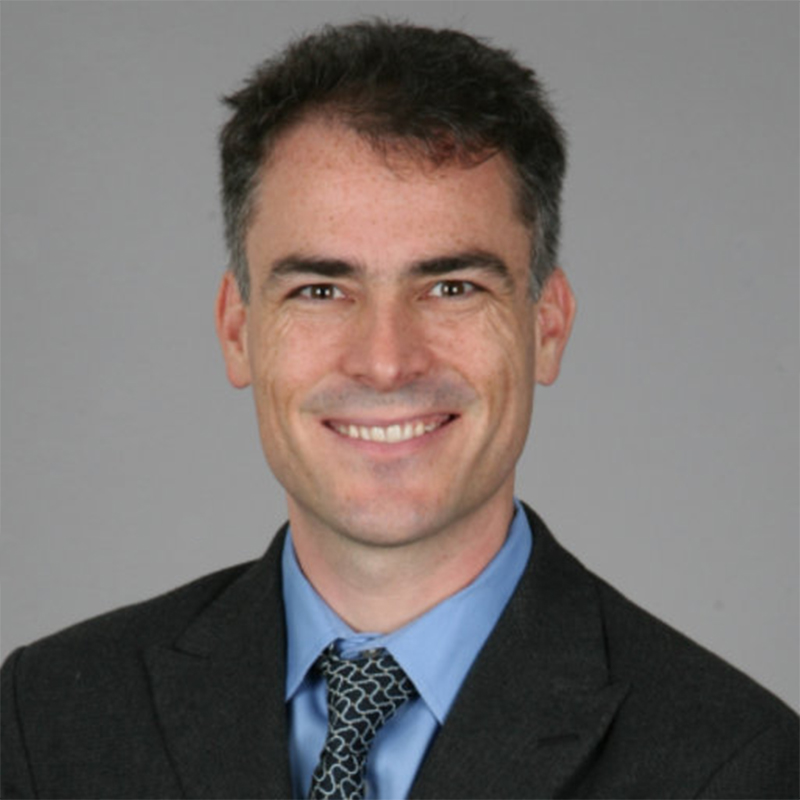
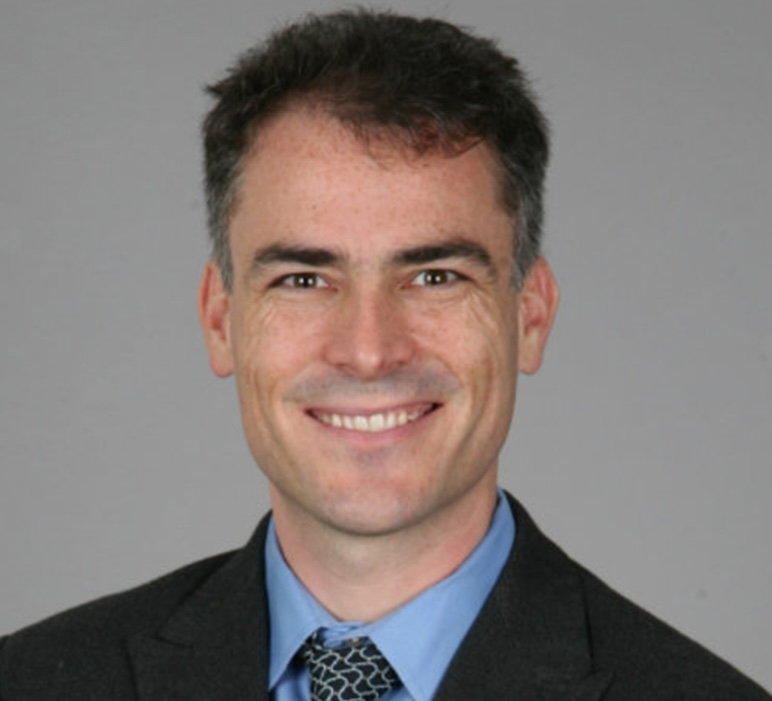
workshops

Changed region(s): [[0.0, 0.0, 1.0, 1.0], [0.4041, 0.1498, 0.6528, 0.2696]]

diff --git a/workshops.html b/workshops.html
@@ -138,6 +138,7 @@ footer .foot-brand { font-size: 1.05rem; font-weight: 700; color: #fff; margin-b
   <div class="ws-meta">Sunday morning &middot; 9:00 am &ndash; 12:30 pm &middot; Chair: Anirban Bandyopadhyay</div>
   <p style="font-size:.92rem;color:#555;margin:.2rem 0 .9rem;">Rooted in the Indian Knowledge System, this workshop bridges contemplative insight with modern science &mdash; exploring how quantum perception, biology, and music illuminate the structure of awareness. Drawing on quantum biology, music cognition, signal processing, and meditative practice, the speakers consider consciousness as a resonant, multi-dimensional phenomenon spanning matter, sound, and mind.</p>
   <div class="spk-grid">
+    <div class="spk"><img class="av" src="img/anirban-bandyopadhyay.jpg" alt="Anirban Bandyopadhyay"><span class="nm">Anirban Bandyopadhyay <em>(Chair)</em></span></div>
     <div class="spk"><div class="ini">CN</div><span class="nm">Chayan Nandi</span></div>
     <div class="spk"><div class="ini">VC</div><span class="nm">Venkatesh Chembrulu</span></div>
     <div class="spk"><div class="ini">AB</div><span class="nm">Archi Banerjee</span></div>
@@ -150,9 +151,9 @@ footer .foot-brand { font-size: 1.05rem; font-weight: 700; color: #fff; margin-b
 
 <div class="session-panel" data-slot="morning" id="s3">
   <h3>W3: Women in Consciousness Science and Education</h3>
-  <div class="ws-meta">Sunday morning &middot; 9:00 am &ndash; 10:20 am</div>
+  <div class="ws-meta">Sunday morning &middot; 9:00 am &ndash; 10:20 am &middot; Chair: Joan Walton</div>
   <div class="spk-grid">
-    <div class="spk"><div class="ini">JW</div><span class="nm">Joan Walton</span></div>
+    <div class="spk"><div class="ini">JW</div><span class="nm">Joan Walton <em>(Chair)</em></span></div>
     <div class="spk"><div class="ini">LW</div><span class="nm">Laurel Waterman</span></div>
     <div class="spk"><div class="ini">MW</div><span class="nm">Marjorie Woollacott</span></div>
   </div>
@@ -160,10 +161,10 @@ footer .foot-brand { font-size: 1.05rem; font-weight: 700; color: #fff; margin-b
 
 <div class="session-panel" data-slot="afternoon" id="s4">
   <h3>W4: Brain Electromagnetic Field Generation and Information Processing</h3>
-  <div class="ws-meta">Sunday afternoon &middot; 2:00 pm &ndash; 4:00 pm &middot; Chair: M. Bruce MacIver</div>
+  <div class="ws-meta">Sunday afternoon &middot; 2:00 pm &ndash; 4:00 pm &middot; Chair: Bruce MacIver</div>
   <p style="font-size:.92rem;color:#555;margin:.2rem 0 .9rem;">Electromagnetic field (EMF) theories propose that consciousness arises from the dynamic electromagnetic field generated by the brain&rsquo;s neuronal currents &mdash; the activity reflected in the EEG. Building on evidence that the brain&rsquo;s strongest field activity is directed inward toward its central regions, the workshop examines how these fields integrate neural activity, why external shielding leaves consciousness unaffected while deep-brain stimulation alters it, and what this implies for the binding and &ldquo;hard&rdquo; problems of consciousness. (See MacIver, <a href="https://www.frontiersin.org/journals/human-neuroscience/articles/10.3389/fnhum.2022.1032339/full" target="_blank" rel="noopener">Consciousness and inward electromagnetic field interactions</a>.)</p>
   <div class="spk-grid">
-    <div class="spk"><div class="ini">BM</div><span class="nm">M. Bruce MacIver</span></div>
+    <div class="spk"><div class="ini">BM</div><span class="nm">Bruce MacIver <em>(Chair)</em></span></div>
     <div class="spk"><div class="ini">JM</div><span class="nm">Johnjoe McFadden</span></div>
     <div class="spk"><img class="av" src="img/michael-levin.jpg" alt="Michael Levin"><span class="nm">Michael Levin <em>(Remote)</em></span></div>
     <div class="spk"><div class="ini">TH</div><span class="nm">Tam Hunt</span></div>
@@ -175,8 +176,8 @@ footer .foot-brand { font-size: 1.05rem; font-weight: 700; color: #fff; margin-b
   <div class="ws-meta">Sunday morning &middot; 8:30 am &ndash; 12:30 pm &middot; Chair: Thomas Brophy</div>
   <p style="font-size:.92rem;color:#555;margin:.2rem 0 .9rem;">Can mind reach beyond the brain and body? This workshop presents the experimental study of telepathy, mediumship, out-of-body experiences, and mind&ndash;matter interaction &mdash; with an emphasis on methodological rigour, replication, and peer-reviewed evidence. Together, the talks survey much of the research program of the Institute of Noetic Sciences (IONS).</p>
   <div class="spk-grid">
+    <div class="spk"><img class="av" src="img/thomas-brophy.jpg" alt="Thomas Brophy"><span class="nm">Thomas Brophy <em>(Chair)</em></span></div>
     <div class="spk"><img class="av" src="img/claudia-welss.jpg" alt="Claudia Welss"><span class="nm">Claudia Welss</span></div>
-    <div class="spk"><img class="av" src="img/thomas-brophy.jpg" alt="Thomas Brophy"><span class="nm">Thomas Brophy</span></div>
     <div class="spk"><img class="av" src="img/dean-radin.jpg" alt="Dean Radin"><span class="nm">Dean Radin</span></div>
     <div class="spk"><img class="av" src="img/helane-wahbeh.jpg" alt="Helane Wahbeh"><span class="nm">Helan&eacute; Wahbeh</span></div>
     <div class="spk"><img class="av" src="img/erik-brinsmead.png" alt="Erik Brinsmead"><span class="nm">Erik Brinsmead</span></div>
@@ -189,12 +190,12 @@ footer .foot-brand { font-size: 1.05rem; font-weight: 700; color: #fff; margin-b
   <div class="ws-meta">Sunday afternoon &middot; 2:00 pm &ndash; 4:00 pm &middot; Chair: Kunal Mooley</div>
   <p style="font-size:.92rem;color:#555;margin:.2rem 0 .9rem;">At the borderlands of consciousness, near-death experiences (NDEs), out-of-body experiences (OBEs), and reports of past-life memories raise pointed questions about whether consciousness depends entirely on the brain. This workshop reviews the scientific study of these phenomena &mdash; from prospective hospital NDE research and tests of perception during OBEs to systematically investigated cases of children who report past-life memories &mdash; and what they may imply for theories of mind.</p>
   <div class="spk-grid">
+    <div class="spk"><div class="ini">KM</div><span class="nm">Kunal Mooley <em>(Chair)</em></span></div>
     <div class="spk"><div class="ini">KP</div><span class="nm">Kim Penberthy</span></div>
     <div class="spk"><div class="ini">MF</div><span class="nm">Martin Fleming</span></div>
     <div class="spk"><div class="ini">PC</div><span class="nm">Philip Cozzoli</span></div>
     <div class="spk"><img class="av" src="img/marina-weiler.jpg" alt="Marina Weiler"><span class="nm">Marina Weiler</span></div>
     <div class="spk"><div class="ini">DW</div><span class="nm">Douglas Watson</span></div>
-    <div class="spk"><div class="ini">KM</div><span class="nm">Kunal Mooley</span></div>
   </div>
 </div>
 
@@ -203,7 +204,7 @@ footer .foot-brand { font-size: 1.05rem; font-weight: 700; color: #fff; margin-b
   <div class="ws-meta">Sunday evening &middot; 7:00 pm &ndash; 10:00 pm &middot; Chair: Susan Schneider</div>
   <p style="font-size:.92rem;color:#555;margin:.2rem 0 .9rem;">Could consciousness extend beyond the human brain &mdash; to animals, plants, cultured neurons, or artificial systems? This workshop probes the criteria and evidence for consciousness in non-human systems, from brain organoids and microtubule-based models to machine intelligence, and asks how we might recognize or measure minds unlike our own.</p>
   <div class="spk-grid">
-    <div class="spk"><img class="av" src="img/susan-schneider.jpg" alt="Susan Schneider"><span class="nm">Susan Schneider</span></div>
+    <div class="spk"><img class="av" src="img/susan-schneider.jpg" alt="Susan Schneider"><span class="nm">Susan Schneider <em>(Chair)</em></span></div>
     <div class="spk"><div class="ini">RK</div><span class="nm">Rajnish Khanna</span></div>
     <div class="spk"><img class="av" src="img/alysson-muotri.jpg" alt="Alysson Muotri"><span class="nm">Alysson Muotri</span></div>
     <div class="spk"><img class="av" src="img/anirban-bandyopadhyay.jpg" alt="Anirban Bandyopadhyay"><span class="nm">Anirban Bandyopadhyay</span></div>
@@ -218,8 +219,8 @@ footer .foot-brand { font-size: 1.05rem; font-weight: 700; color: #fff; margin-b
   <div class="ws-meta">Sunday afternoon &middot; 2:00 pm &ndash; 4:00 pm &middot; Chair: Rael Cahn</div>
   <p style="font-size:.92rem;color:#555;margin:.2rem 0 .9rem;">Psychedelics have re-emerged as powerful tools for probing consciousness and easing mental suffering. This workshop brings together clinicians and researchers to examine the neuroscience, therapeutic potential, and contemplative dimensions of psychedelic states &mdash; from controlled clinical trials to the interplay of meditation and altered states.</p>
   <div class="spk-grid">
-    <div class="spk"><img class="av" src="img/rael-cahn.jpg" alt="Rael Cahn"><span class="nm">Rael Cahn</span></div>
-    <div class="spk"><div class="ini">JT</div><span class="nm">Joe Tafur</span></div>
+    <div class="spk"><img class="av" src="img/rael-cahn.jpg" alt="Rael Cahn"><span class="nm">Rael Cahn <em>(Chair)</em></span></div>
+    <div class="spk"><img class="av" src="img/joe-tafur.png" alt="Joe Tafur"><span class="nm">Joe Tafur</span></div>
     <div class="spk"><img class="av" src="img/robin-carhart-harris.jpg" alt="Robin Carhart-Harris"><span class="nm">Robin Carhart-Harris</span></div>
     <div class="spk"><img class="av" src="img/cassandra-vieten.jpg" alt="Cassandra Vieten"><span class="nm">Cassandra Vieten</span></div>
   </div>
